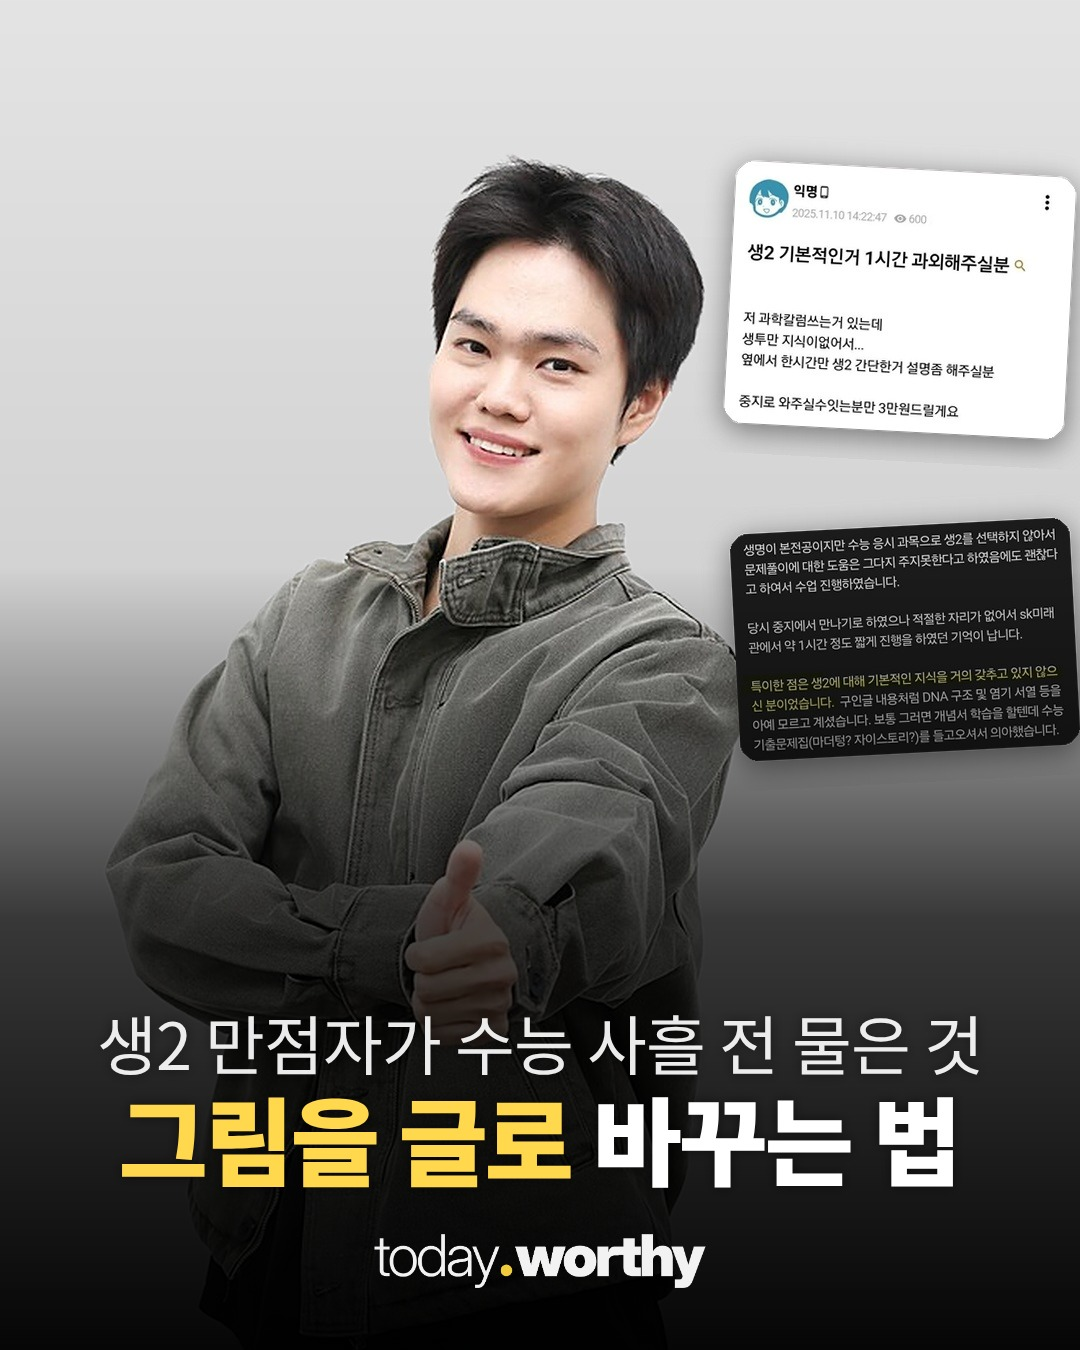
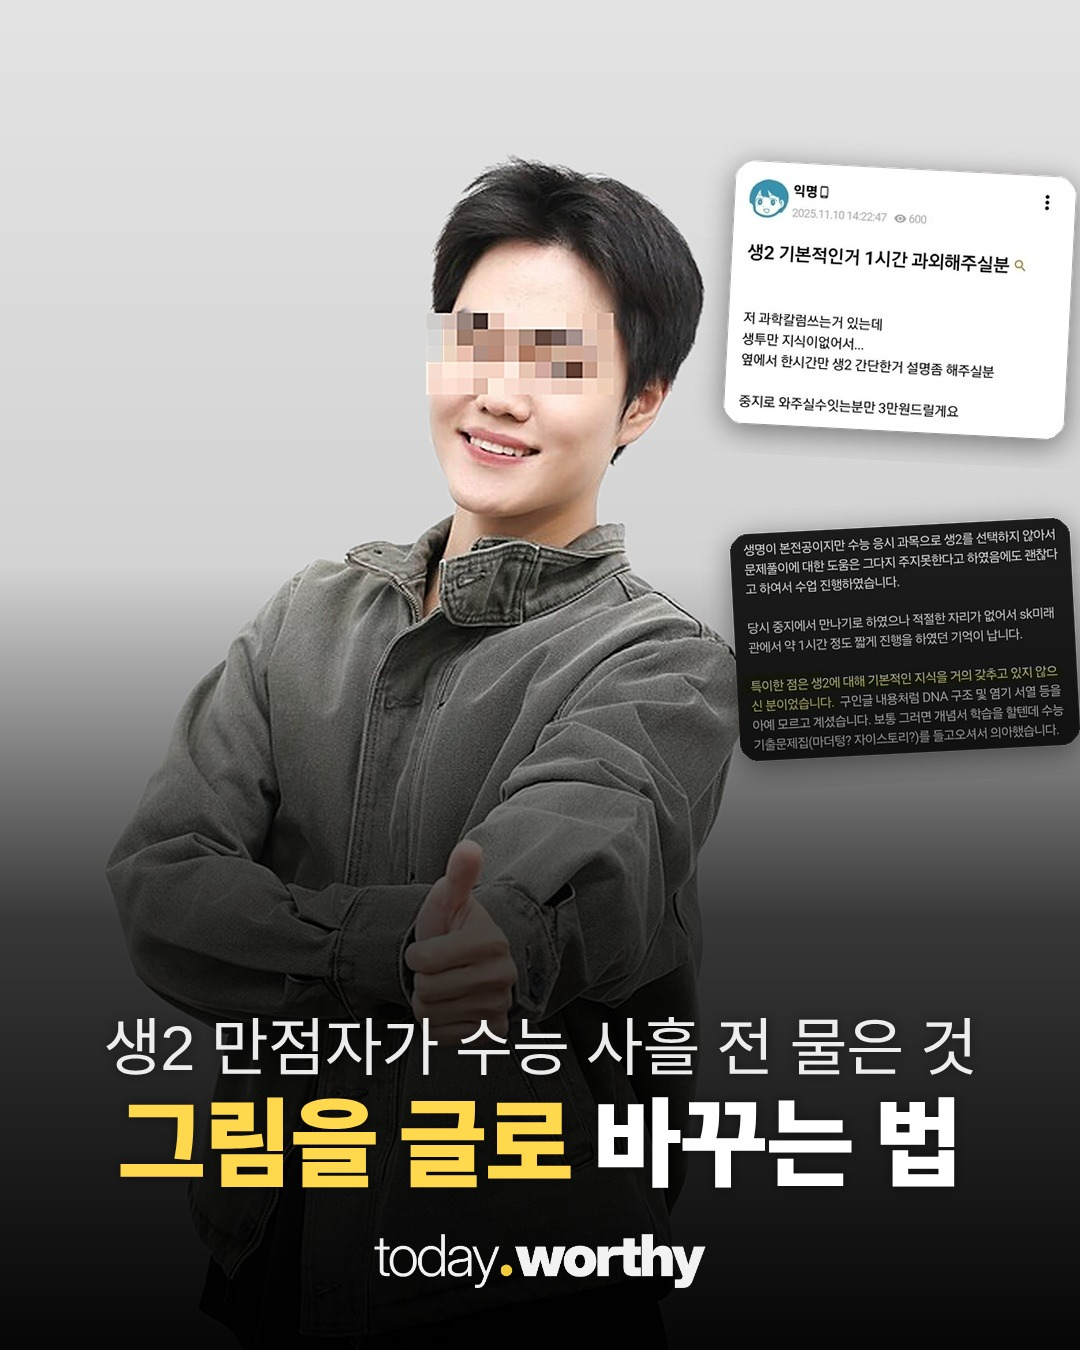
send(승인 대기): 20261116-leettutor 표지 눈 모자이크

diff --git a/media/20261116-leettutor/build_cards.py b/media/20261116-leettutor/build_cards.py
@@ -60,6 +60,8 @@ def place(base, t, cx, cy, ang, wdt):
 
 
 person = Image.open(O / "person_new.png").convert("RGBA")  # 사용자 제공 사진(흰 배경 누끼)
+# 눈 모자이크(2026.11.16 사용자 지시)
+_b = (200, 100, 315, 150); _r = person.crop(_b); _r = _r.resize((max(1, _r.width // 9), max(1, _r.height // 9)), Image.NEAREST).resize(_r.size, Image.NEAREST); person.paste(_r, _b[:2])
 ph = 1260; person = person.resize((round(person.width * ph / person.height), ph), Image.LANCZOS).filter(ImageFilter.UnsharpMask(2, 60, 2))
 cov.alpha_composite(person, (100, 150))
 place(cov, req.crop((0, 190, 850, 845)), 900, 300, -3, 340)
